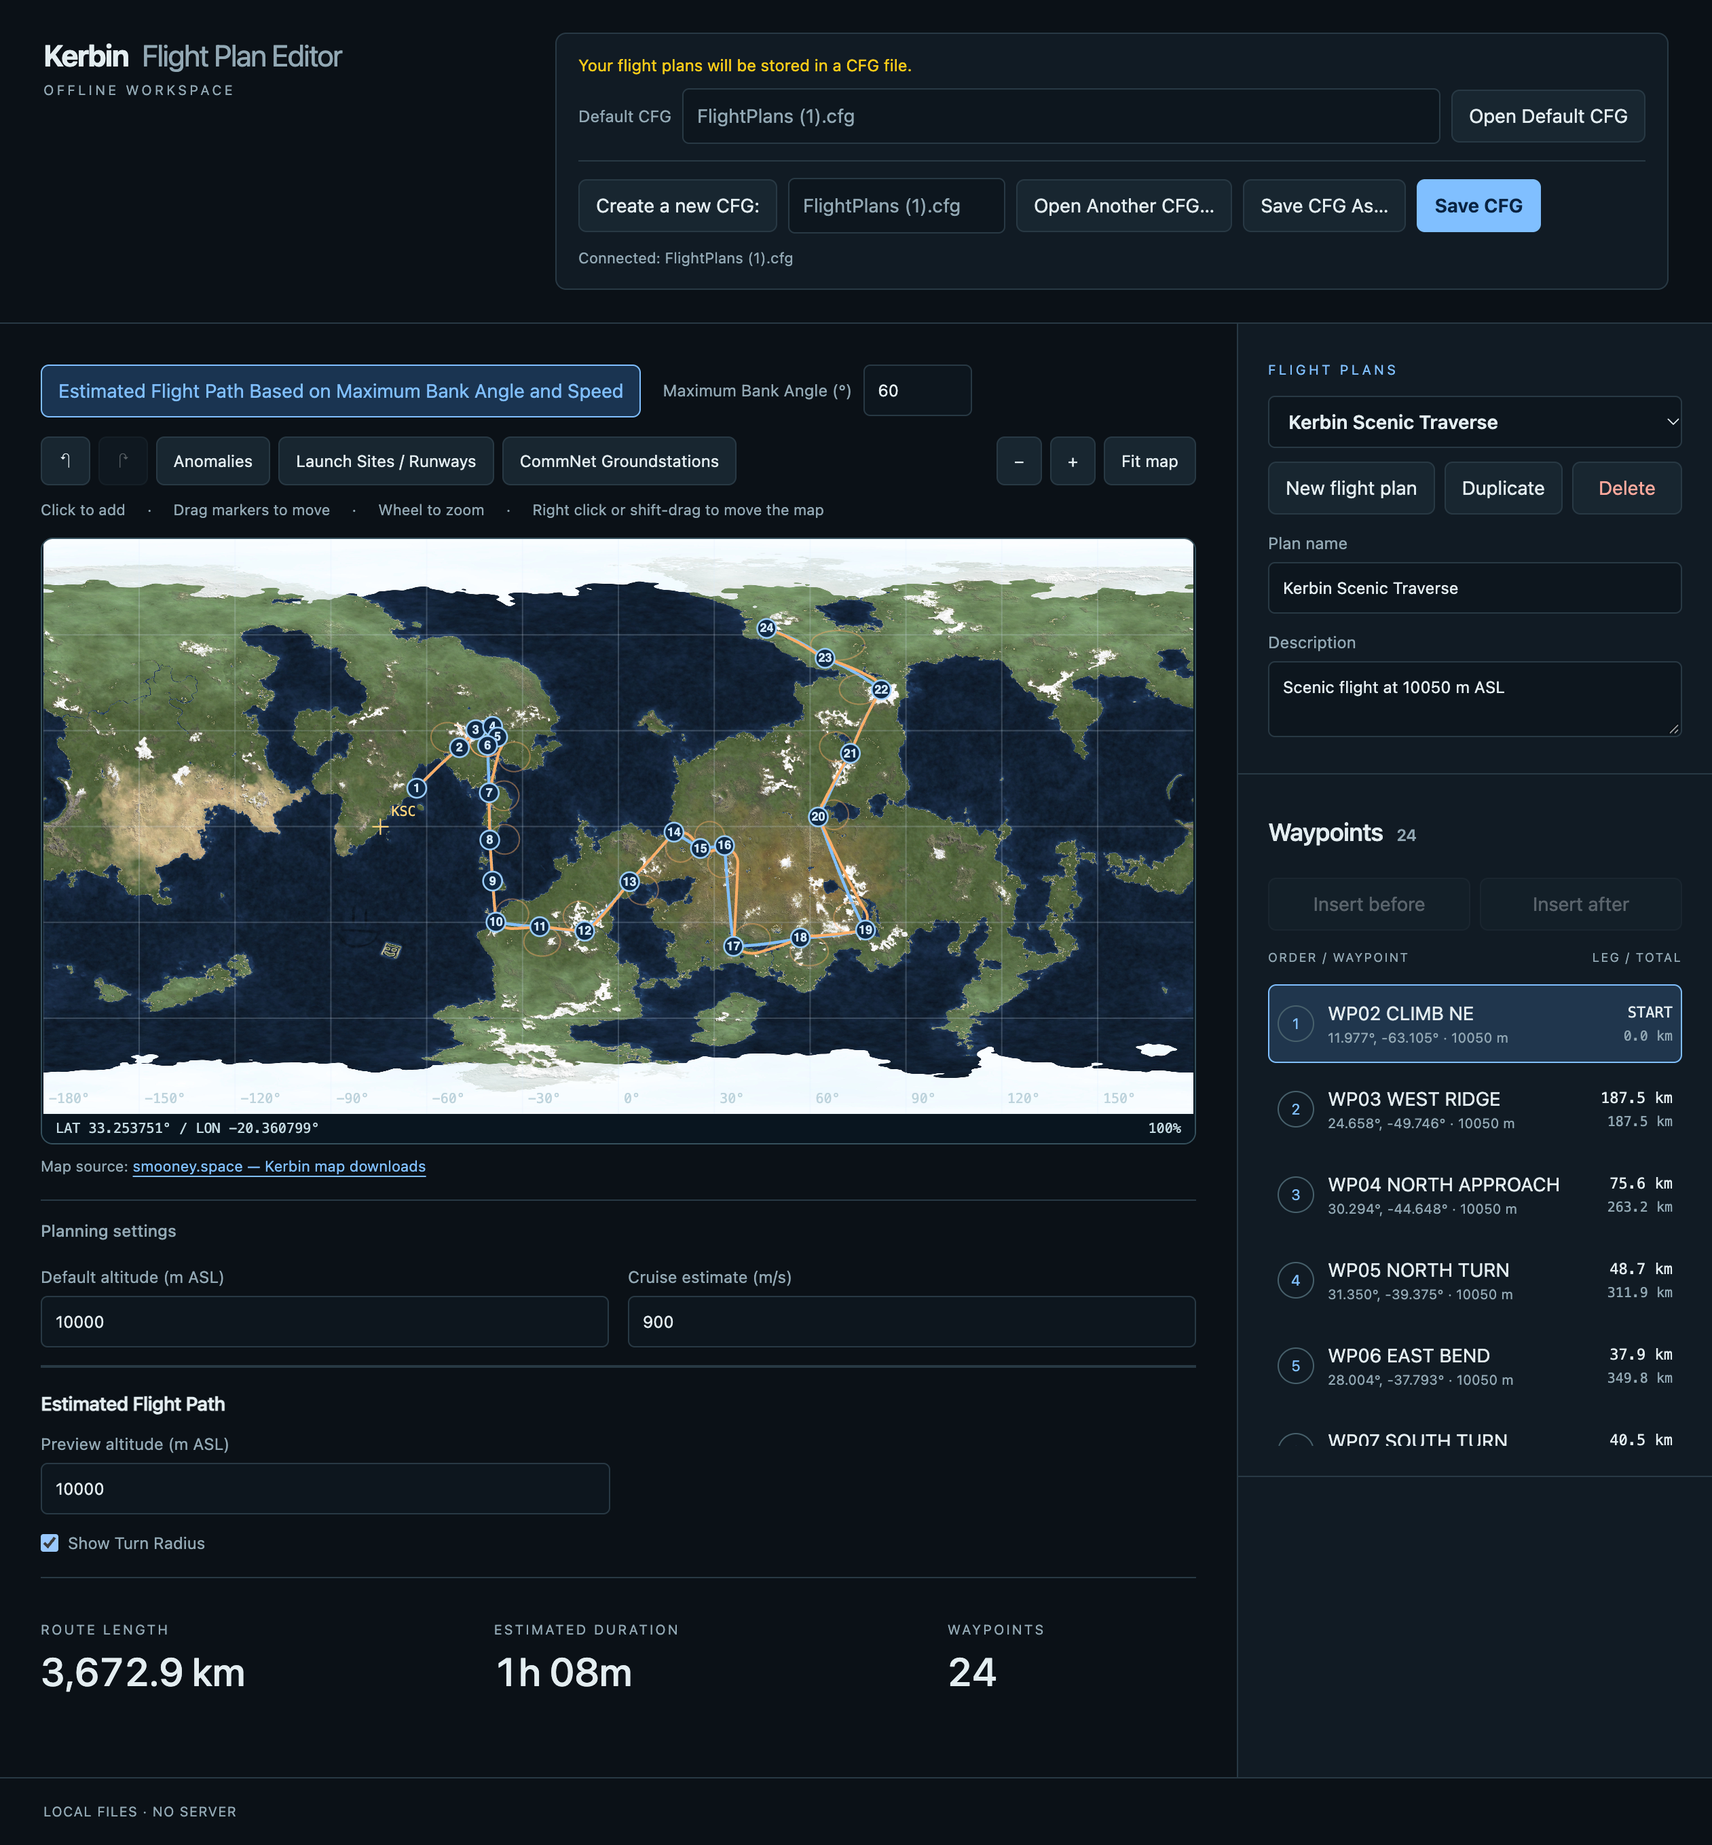
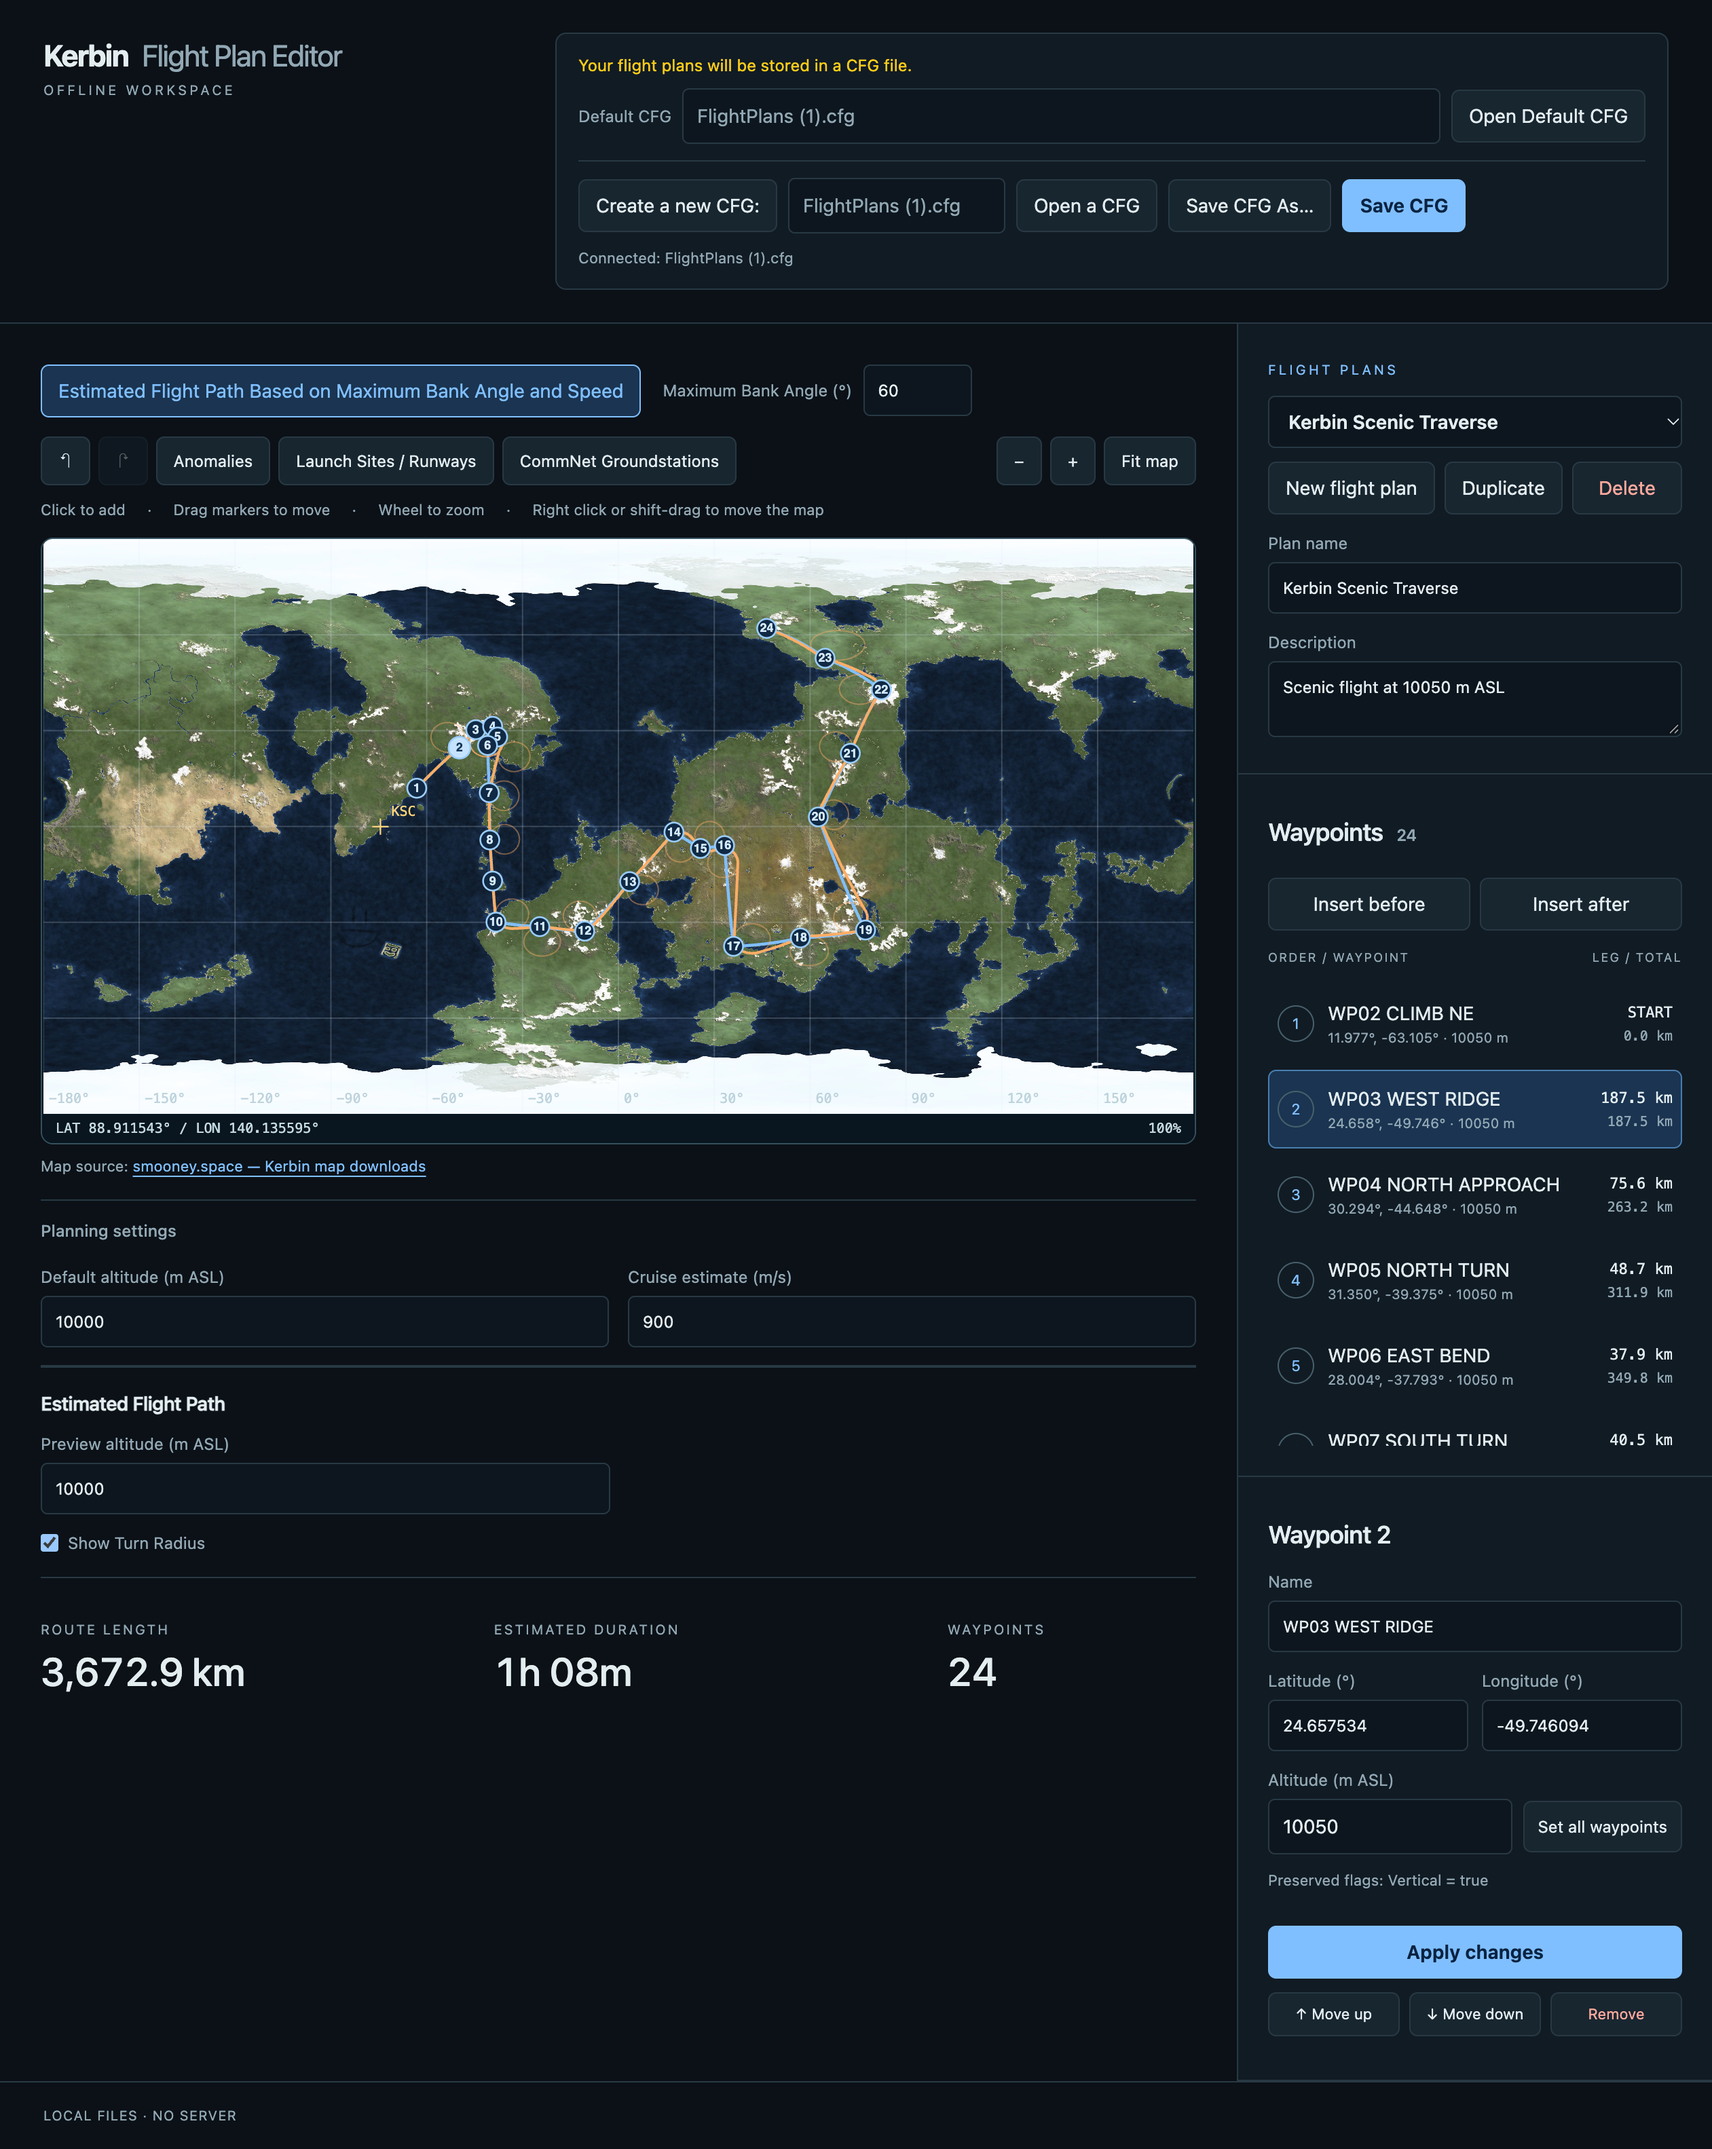
Update

diff --git a/Flight Plan Editor/src/prediction-ui.js b/Flight Plan Editor/src/prediction-ui.js
@@ -45,7 +45,7 @@ function drawPrediction(){
  if(!predictionEnabled||!predictionResult)return;
  ctx.save();ctx.strokeStyle='#ffad66';ctx.lineWidth=2;ctx.setLineDash([6,4]);predictionLine(predictionResult.samples);
  if($('previewCircles').checked&&Number.isFinite(predictionResult.groundRadius)){ctx.strokeStyle='#ffad6670';ctx.lineWidth=1;ctx.setLineDash([3,5]);
-  for(const event of predictionResult.switches){if(selected>=0&&selected!==event.waypoint)continue;if(Math.abs(event.turn)<1)continue;predictionLine(FlightPrediction.circle(event,predictionResult.groundRadius));}
+  for(const event of predictionResult.switches){if(Math.abs(event.turn)<1)continue;predictionLine(FlightPrediction.circle(event,predictionResult.groundRadius));}
  }
  ctx.restore();
 }

diff --git a/Source/Editor/src/prediction-ui.js b/Source/Editor/src/prediction-ui.js
@@ -45,7 +45,7 @@ function drawPrediction(){
  if(!predictionEnabled||!predictionResult)return;
  ctx.save();ctx.strokeStyle='#ffad66';ctx.lineWidth=2;ctx.setLineDash([6,4]);predictionLine(predictionResult.samples);
  if($('previewCircles').checked&&Number.isFinite(predictionResult.groundRadius)){ctx.strokeStyle='#ffad6670';ctx.lineWidth=1;ctx.setLineDash([3,5]);
-  for(const event of predictionResult.switches){if(selected>=0&&selected!==event.waypoint)continue;if(Math.abs(event.turn)<1)continue;predictionLine(FlightPrediction.circle(event,predictionResult.groundRadius));}
+  for(const event of predictionResult.switches){if(Math.abs(event.turn)<1)continue;predictionLine(FlightPrediction.circle(event,predictionResult.groundRadius));}
  }
  ctx.restore();
 }
